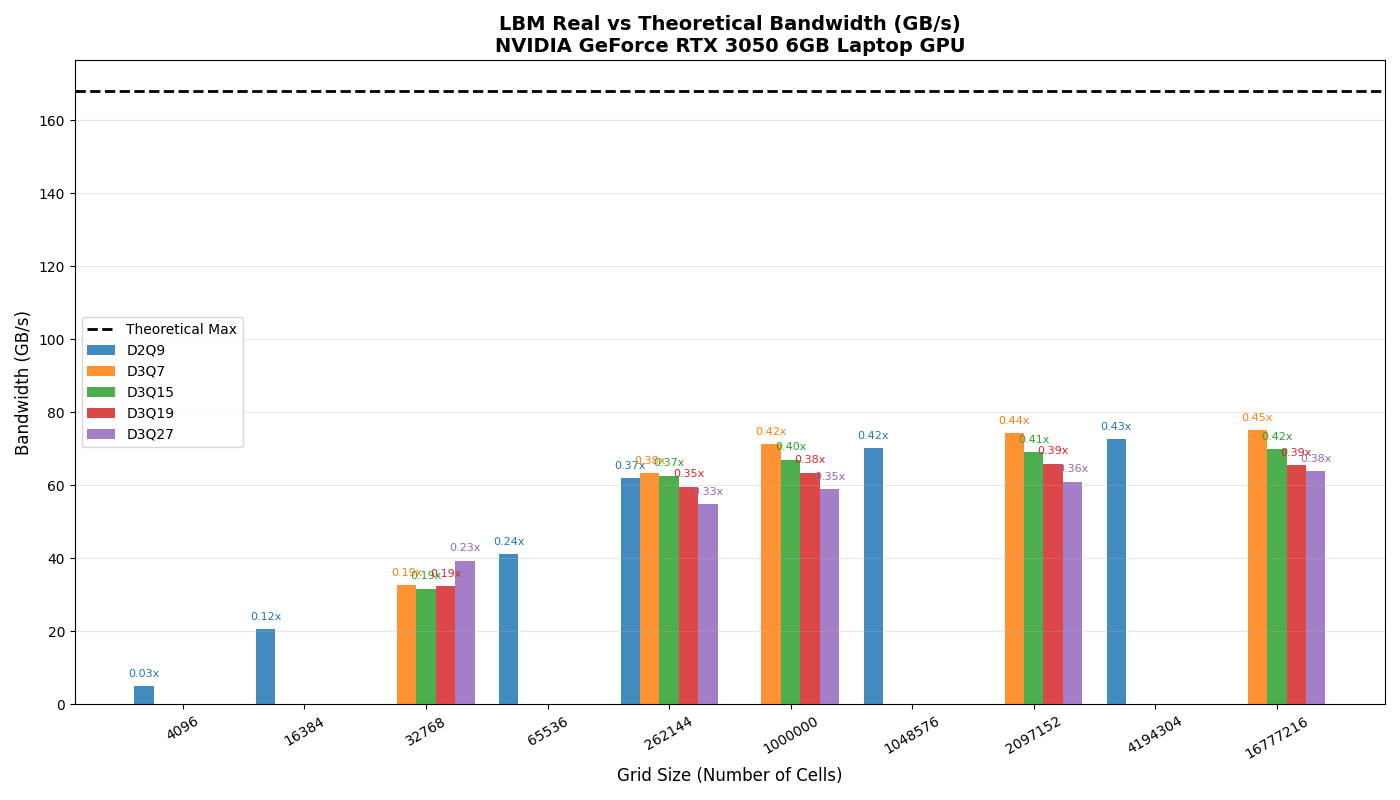
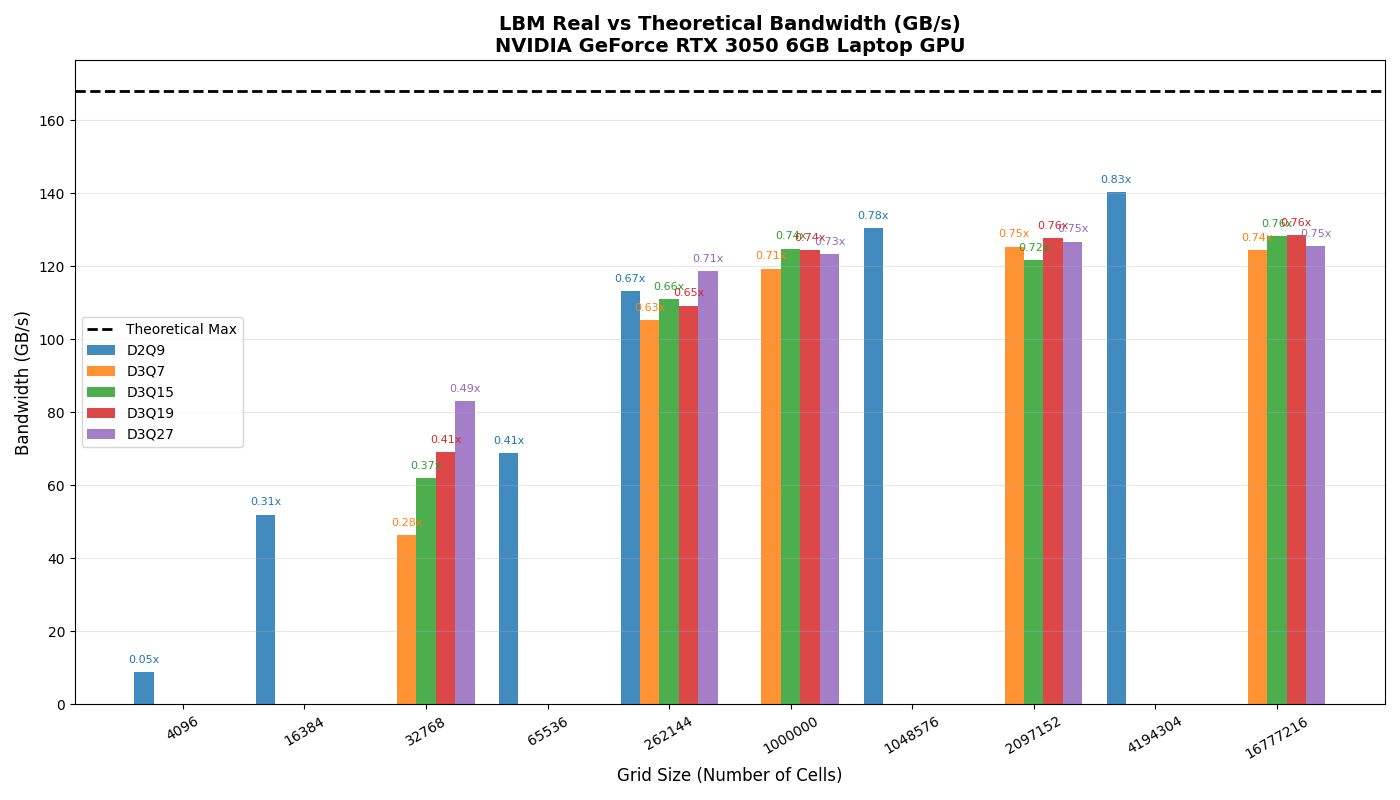
Implement stream collision kernel for Lattice Boltzmann method
- Added OpenCL kernel `stream_collide_kernel` for performing streaming and collision steps in the Lattice Boltzmann simulation.
- The kernel handles fluid and solid cells based on a flag array, allowing for bounce-back conditions at solid boundaries.
- Introduced a ping-pong buffer mechanism to alternate between input and output distribution functions.
- Calculated macroscopic variables (density and velocity) from the distribution function.
- Implemented BGK collision model for fluid cells and a prescribed velocity model for equilibrium cells.

diff --git a/src/solver/run.rs b/src/solver/run.rs
@@ -31,7 +31,7 @@ impl LBM {
                 .as_ref()
                 .unwrap()
                 .enq()
-                .expect("Failed to enqueue 'collision_kernel'.");
+                .expect("Failed to enqueue 'equilibrium_kernel'.");
             self.queue
                 .as_ref()
                 .unwrap()
@@ -41,8 +41,6 @@ impl LBM {
 
         // Create a progress bar
         let pb = ProgressBar::new(self.time_steps as u64);
-
-        // Customize the progress bar style (optional)
         pb.set_style(
             ProgressStyle::default_bar()
                 .template("{spinner:.green} [{bar:55.cyan/blue}] {pos}/{len} ({eta})")
@@ -50,7 +48,7 @@ impl LBM {
                 .progress_chars("=> "),
         );
 
-        // Recreate output folder -> FUTURE FEATURE: add folder and file customization
+        // Recreate output folder
         let output_path = Path::new("output");
         if output_path.exists() {
             std::fs::remove_dir_all(output_path)
@@ -61,29 +59,14 @@ impl LBM {
         // Start timing
         let start_time = Instant::now();
 
-        // Main Loop
+        // Main Loop using fused stream-collide kernel
         for t in 0..self.time_steps {
-            // Execute kernels
-            // Collision process
             unsafe {
-                let kernel = self.collision_kernel.as_ref().unwrap();
+                let kernel = self.stream_collide_kernel.as_ref().expect("stream_collide_kernel not initialized");
                 kernel.set_arg(6, &(t as i32))
                     .expect("Failed to set kernel argument.");
                 kernel.enq()
-                    .expect("Failed to enqueue 'collision_kernel'.");
-                self.queue
-                    .as_ref()
-                    .unwrap()
-                    .finish()
-                    .expect("Queue finish failed.");
-            }
-            // Streaming process
-            unsafe {
-                let kernel = self.streaming_kernel.as_ref().unwrap();
-                kernel.set_arg(3, &(t as i32))
-                    .expect("Failed to set kernel argument.");
-                kernel.enq()
-                    .expect("Failed to enqueue 'streaming_kernel'.");
+                    .expect("Failed to enqueue 'stream_collide_kernel'.");
                 self.queue
                     .as_ref()
                     .unwrap()
@@ -93,14 +76,12 @@ impl LBM {
 
             // Output data
             if (self.output_interval != 0) && (t % self.output_interval == 0) {
-                // Read data from GPU to CPU
                 if let Err(err) = self.read_from_gpu() {
                     terminal_utils::print_error(&format!("Error reading data from GPU: {}", err));
                     return;
                 }
                 let magnitude = self.time_steps.to_string().len();
                 if self.output_csv {
-                    // Export data to output csv file
                     let filename = format!("output/data_{:0width$}.csv", t, width = magnitude);
                     if let Err(err) = self.output_to_csv(&filename.to_string()) {
                         terminal_utils::print_error(&format!("Error exporting data: {}", err));
@@ -108,7 +89,6 @@ impl LBM {
                     }
                 }
                 if self.output_vtk {
-                    // Export data to VTK file
                     let filename = format!("output/data_{:0width$}.vtk", t, width = magnitude);
                     if let Err(err) = self.export_to_vtk(&filename) {
                         terminal_utils::print_error(&format!("Error exporting VTK data: {}", err));
@@ -117,21 +97,21 @@ impl LBM {
                 }
             }
 
-            pb.inc(1); // Increment the progress bar by 1
+            pb.inc(1);
         }
+
+        // Calculate total execution time
+        let elapsed_time = start_time.elapsed();
+        let elapsed_seconds = elapsed_time.as_secs_f64();
+        // Calculate MLUps
+        let mlups = (self.N as f64 * self.time_steps as f64) / elapsed_seconds / 1_000_000.0;
+
         // Read data from GPU to CPU
         if let Err(err) = self.read_from_gpu() {
             terminal_utils::print_error(&format!("Error reading data from GPU: {}", err));
             return;
         }
         pb.finish_with_message("");
-
-        // Calculate total execution time
-        let elapsed_time = start_time.elapsed();
-        let elapsed_seconds = elapsed_time.as_secs_f64();
-
-        // Calculate MLUps
-        let mlups = (self.N as f64 * self.time_steps as f64) / elapsed_seconds / 1_000_000.0; // Performance in Millions Lattice Updates per Second (MLUps)
 
         terminal_utils::print_metrics(self.time_steps as u64, elapsed_seconds, mlups);
     }

diff --git a/src/solver/opencl.rs b/src/solver/opencl.rs
@@ -109,48 +109,71 @@ impl LBM {
     }
 
     pub fn get_optimal_work_group_size(&self) -> Result<usize, Box<dyn Error>> {
-        Ok(64)
+        Ok(64)  // Always return 64
     }
 
-    pub fn create_streaming_kernel(&mut self) -> Result<(), Box<dyn Error>> {
-        let work_group_size = self.get_optimal_work_group_size()?;
+    // pub fn create_streaming_kernel(&mut self) -> Result<(), Box<dyn Error>> {
+    //     let work_group_size = self.get_optimal_work_group_size()?;
         
-        self.streaming_kernel = Some(
-            Kernel::builder()
-                .program(self.program.as_ref().unwrap())
-                .name("streaming_kernel")
-                .queue(self.queue.as_ref().unwrap().clone())
-                .global_work_size(self.N)
-                .local_work_size(work_group_size)
-                .arg(self.f_buffer.as_ref().unwrap())
-                .arg(self.f_new_buffer.as_ref().unwrap())
-                .arg(self.flags_buffer.as_ref().unwrap())
-                .arg(0i32)
-                .build()
-                .expect("Failed to build OpenCL 'streaming_kernel'."),
-        );
-        Ok(())
-    }
+    //     self.streaming_kernel = Some(
+    //         Kernel::builder()
+    //             .program(self.program.as_ref().unwrap())
+    //             .name("streaming_kernel")
+    //             .queue(self.queue.as_ref().unwrap().clone())
+    //             .global_work_size(self.N)
+    //             .local_work_size(work_group_size)
+    //             .arg(self.f_buffer.as_ref().unwrap())
+    //             .arg(self.f_new_buffer.as_ref().unwrap())
+    //             .arg(self.flags_buffer.as_ref().unwrap())
+    //             .arg(0i32)
+    //             .build()
+    //             .expect("Failed to build OpenCL 'streaming_kernel'."),
+    //     );
+    //     Ok(())
+    // }
 
-    pub fn create_collision_kernel(&mut self) -> Result<(), Box<dyn Error>> {
-        let work_group_size = self.get_optimal_work_group_size()?;
+    // pub fn create_collision_kernel(&mut self) -> Result<(), Box<dyn Error>> {
+    //     let work_group_size = self.get_optimal_work_group_size()?;
         
-        self.collision_kernel = Some(
+    //     self.collision_kernel = Some(
+    //         Kernel::builder()
+    //             .program(self.program.as_ref().unwrap())
+    //             .name("collision_kernel")
+    //             .queue(self.queue.as_ref().unwrap().clone())
+    //             .global_work_size(self.N)
+    //             .local_work_size(work_group_size)
+    //             .arg(self.f_buffer.as_ref().unwrap())
+    //             .arg(self.f_new_buffer.as_ref().unwrap())
+    //             .arg(self.density_buffer.as_ref().unwrap())
+    //             .arg(self.flags_buffer.as_ref().unwrap())
+    //             .arg(self.u_buffer.as_ref().unwrap())
+    //             .arg(self.omega)
+    //             .arg(0i32)
+    //             .build()
+    //             .expect("Failed to build OpenCL 'collision_kernel'."),
+    //     );
+    //     Ok(())
+    // }
+
+    pub fn create_stream_collide_kernel(&mut self) -> Result<(), Box<dyn Error>> {
+        let work_group_size = self.get_optimal_work_group_size()?;
+
+        self.stream_collide_kernel = Some(
             Kernel::builder()
                 .program(self.program.as_ref().unwrap())
-                .name("collision_kernel")
+                .name("stream_collide_kernel")
                 .queue(self.queue.as_ref().unwrap().clone())
                 .global_work_size(self.N)
                 .local_work_size(work_group_size)
                 .arg(self.f_buffer.as_ref().unwrap())
                 .arg(self.f_new_buffer.as_ref().unwrap())
                 .arg(self.density_buffer.as_ref().unwrap())
-                .arg(self.flags_buffer.as_ref().unwrap())
                 .arg(self.u_buffer.as_ref().unwrap())
+                .arg(self.flags_buffer.as_ref().unwrap())
                 .arg(self.omega)
-                .arg(0i32)
+                .arg(0i32) // timestep or other args as needed
                 .build()
-                .expect("Failed to build OpenCL 'collision_kernel'."),
+                .expect("Failed to build OpenCL 'stream_collide_kernel'."),
         );
         Ok(())
     }

diff --git a/src/solver/benchmark.rs b/src/solver/benchmark.rs
@@ -168,29 +168,14 @@ impl LBM {
                 .expect("Queue finish failed");
         }
         
-        // Main simulation loop (simplified version of run method)
+        // Main simulation loop (fused stream-collide kernel)
         for t in 0..config.time_steps {
-            // Collision
             unsafe {
-                let kernel = lbm.collision_kernel.as_ref().unwrap();
+                let kernel = lbm.stream_collide_kernel.as_ref().unwrap();
                 kernel.set_arg(6, &(t as i32))
                     .expect("Failed to set kernel argument");
                 kernel.enq()
-                    .expect("Failed to enqueue collision kernel");
-                lbm.queue
-                    .as_ref()
-                    .unwrap()
-                    .finish()
-                    .expect("Queue finish failed");
-            }
-            
-            // Streaming
-            unsafe {
-                let kernel = lbm.streaming_kernel.as_ref().unwrap();
-                kernel.set_arg(3, &(t as i32))
-                    .expect("Failed to set kernel argument");
-                kernel.enq()
-                    .expect("Failed to enqueue streaming kernel");
+                    .expect("Failed to enqueue stream-collide kernel");
                 lbm.queue
                     .as_ref()
                     .unwrap()

diff --git a/src/solver/kernel.rs b/src/solver/kernel.rs
@@ -5,9 +5,10 @@ use super::lbm::LBM;
 use std::error::Error;
 
 pub const KERNEL_EQUILIBRIUM_SRC: &str = include_str!("../kernels/kernel_equilibrium.cl");
-pub const KERNEL_STREAMING_SRC: &str = include_str!("../kernels/kernel_streaming.cl");
-pub const KERNEL_COLLISION_SRC: &str = include_str!("../kernels/kernel_collision.cl");
+//pub const KERNEL_STREAMING_SRC: &str = include_str!("../kernels/kernel_streaming.cl");
+//pub const KERNEL_COLLISION_SRC: &str = include_str!("../kernels/kernel_collision.cl");
 pub const KERNEL_VELOCITY_SETS_SRC: &str = include_str!("../kernels/kernel_velocity_sets.cl");
+pub const KERNEL_STREAM_COLLIDE_SRC: &str = include_str!("../kernels/kernel_stream_collide.cl");
 
 impl LBM {
     pub fn generate_custom_kernel(&mut self) -> Result<String, Box<dyn Error>> {
@@ -25,7 +26,6 @@ impl LBM {
         {}
         {}
         {}
-        {}
         "#,
             self.Nx,
             self.Ny,
@@ -34,8 +34,7 @@ impl LBM {
             self.Q,
             self.model.as_str(),
             KERNEL_VELOCITY_SETS_SRC,
-            KERNEL_STREAMING_SRC,
-            KERNEL_COLLISION_SRC,
+            KERNEL_STREAM_COLLIDE_SRC,
             KERNEL_EQUILIBRIUM_SRC,
         );
         Ok(kernel_source)

diff --git a/src/solver/init.rs b/src/solver/init.rs
@@ -44,8 +44,9 @@ impl LBM {
             context: None,
             queue: None,
             program: None,
-            streaming_kernel: None,
-            collision_kernel: None,
+            // streaming_kernel: None,
+            // collision_kernel: None,
+            stream_collide_kernel: None,
             equilibrium_kernel: None,
             found_errors: false,
             output_interval: 0,
@@ -90,14 +91,17 @@ impl LBM {
                 .expect("Failed to reserve flags_buffer."),
         );
 
-        self.create_collision_kernel()
-        .expect("Failed to create 'streaming kernel'.");
+        // self.create_collision_kernel()
+        // .expect("Failed to create 'streaming kernel'.");
         
-        self.create_streaming_kernel()
-            .expect("Failed to create 'streaming kernel'.");
+        // self.create_streaming_kernel()
+        //     .expect("Failed to create 'streaming kernel'.");
         
         self.create_equilibrium_kernel()
             .expect("Failed to create 'equilibrium kernel'.");
+
+        self.create_stream_collide_kernel()
+            .expect("Failed to create 'stream_collide' kernel.");
 
         self.calculate_vram_usage();
     }

diff --git a/src/solver/lbm.rs b/src/solver/lbm.rs
@@ -31,9 +31,10 @@ pub struct LBM {
     pub context: Option<Context>,
     pub queue: Option<Queue>,
     pub program: Option<Program>,
-    pub streaming_kernel: Option<Kernel>,
-    pub collision_kernel: Option<Kernel>,
+    // pub streaming_kernel: Option<Kernel>,
+    // pub collision_kernel: Option<Kernel>,
     pub equilibrium_kernel: Option<Kernel>,
+    pub stream_collide_kernel: Option<Kernel>,
     pub found_errors: bool,
     pub output_interval: usize,
     pub output_csv: bool,

diff --git a/plot_benchmark.py b/plot_benchmark.py
@@ -4,7 +4,7 @@ import matplotlib.ticker as mticker
 import numpy as np
 
 # Update
-benchmark_file = "benchmark_results_1753273000.csv"
+benchmark_file = "benchmark_results_1753274499.csv"
 max_bandwidth_GBs = 168  # Ex.: RTX 3050 Laptop GPU (168 GB/s)
 
 
